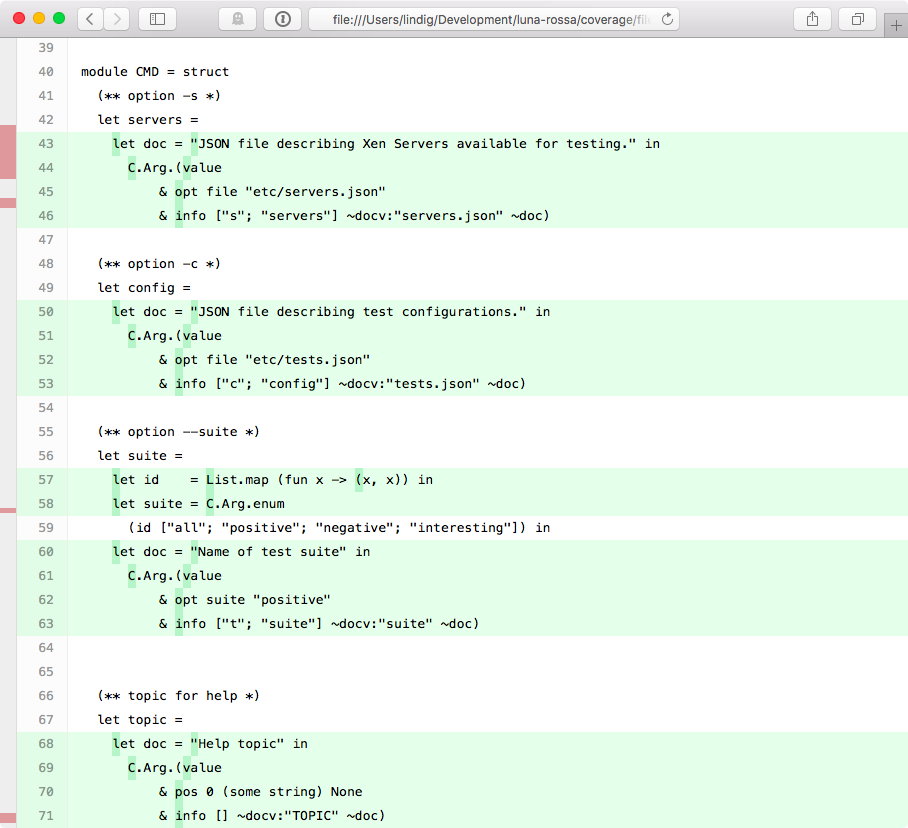
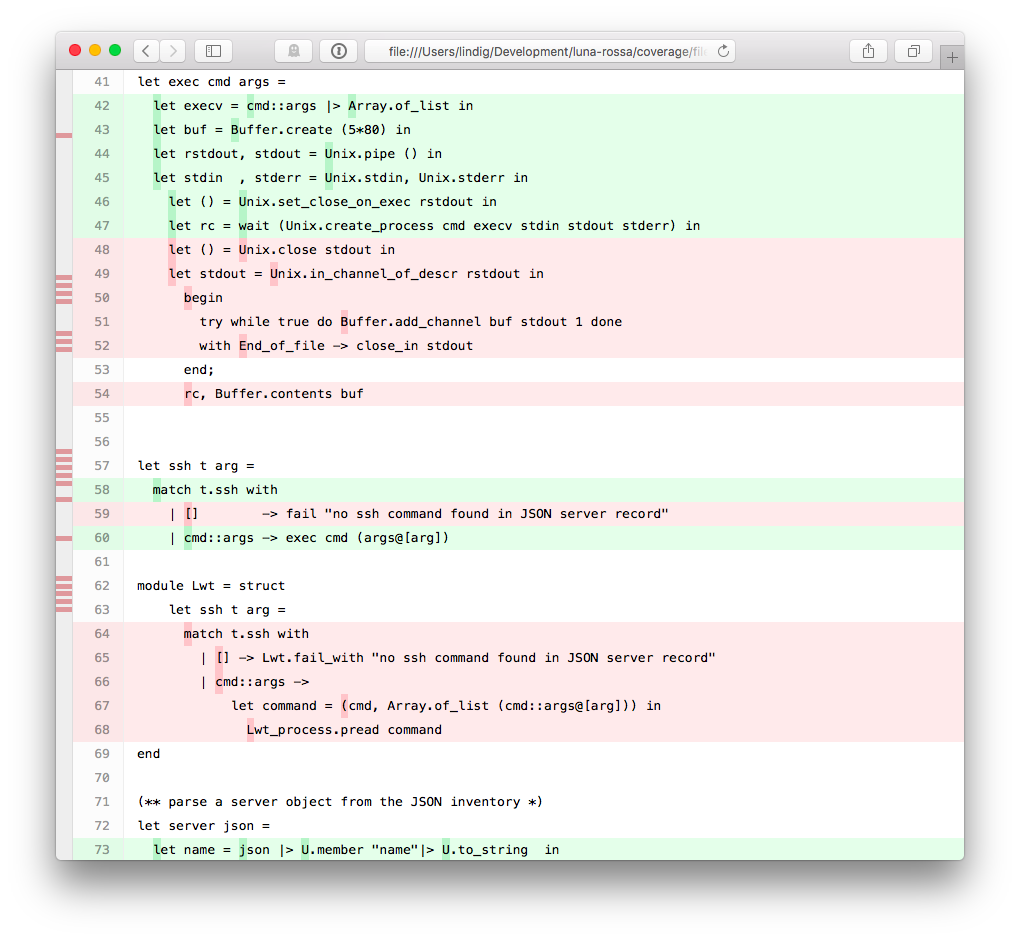
CP-17268 Improve wording, improve screenshot, remove stale line

diff --git a/profiling/coverage.md b/profiling/coverage.md
@@ -39,6 +39,10 @@ codebase was executed.
 
 ![Coverage Analysis](./coverage-screenshot.png)
 
+Red parts indicate code that wasn't executed whereas green parts were.
+Hovering over a dark green spot reveals how often that point was
+executed.
+
 The individual steps of instrumenting code with [BisectPPX] are greatly
 abstracted by OCamlfind (OCaml's library manager) and OCamlbuild
 (OCaml's compilation manager):
@@ -113,14 +117,14 @@ clarity it is called at the begin of program execution.
 ## Instrumenting an Oasis Project
 
 While instrumentation is easy on the level of a small file or project it
-is increasingly less so in a bigger project. We decided to focus on
-projects that are build with the [Oasis] build and packaging manager. 
-These have a well-defined structure and compilation process that is
-controlled by a central `_oasis` file. This file describes for each
-library and binary its dependencies at a package level. From this, 
-[Oasis] generates a `configure` script and compilation rules for the
-[OCamlbuild] system. [Oasis] is designed that the generated files can be
-shipped without requiring [Oasis] itself being available. 
+is challenging in a bigger project. We decided to focus on projects that
+are build with the [Oasis] build and packaging manager.  These have a
+well-defined structure and compilation process that is controlled by a
+central `_oasis` file. This file describes for each library and binary
+its dependencies at a package level. From this, [Oasis] generates a
+`configure` script and compilation rules for the [OCamlbuild] system.
+[Oasis] is designed that the generated files can be shipped without
+requiring [Oasis] itself being available.
 
 Goals for instrumentation are:
 
